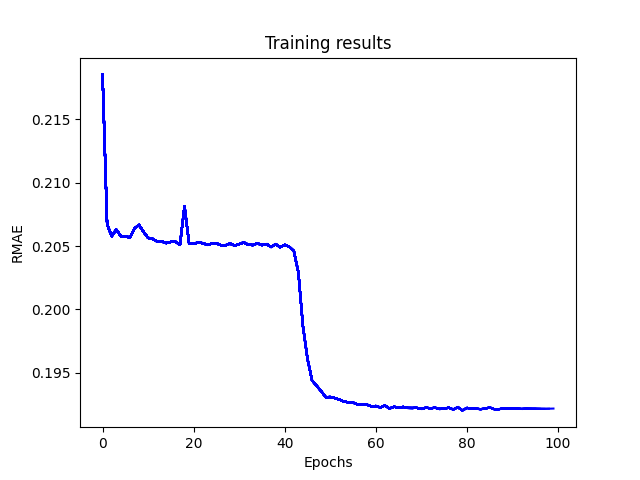
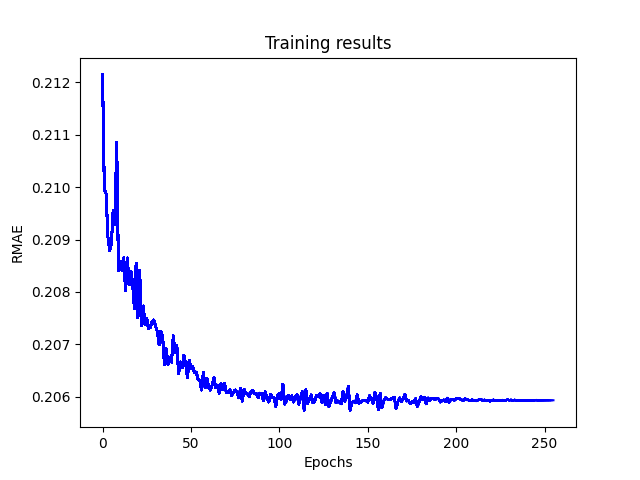
make linear regression use the same data to train as random forest

diff --git a/basic_models/linear_regression.py b/basic_models/linear_regression.py
@@ -2,6 +2,8 @@ import pandas
 from sklearn import linear_model
 import math
 from statistics import mean
+import numpy as np
+from sklearn.model_selection import train_test_split
 
 df = pandas.read_csv("preprocessed_data.csv")
 
@@ -13,8 +15,16 @@ df_test = df.iloc[split_index:,:]
 X = df_dev[['temperature','humidity','wind_speed','day','10minuteofday','prev_aggregated_consumption']]
 y = df_dev['aggregated_consumption']
 
+labels = np.array(df['aggregated_consumption'])
+df = df.drop('aggregated_consumption', axis=1)
+df = df.drop(df.columns[0], axis=1)
+features = np.array(df)
+train_features, test_features, train_labels, test_labels = train_test_split(
+    features, labels, test_size=0.25, random_state=42)
+
 regr = linear_model.LinearRegression()
-regr.fit(X.values, y.values)
+#regr.fit(X.values, y.values)
+regr.fit(train_features, train_labels)
 
 diff = []
 

diff --git a/basic_models/args.py b/basic_models/args.py
@@ -7,9 +7,9 @@ def parse_args() -> Namespace:
     p.add_argument('--device', type=str, default='cpu')
 
     p.add_argument('--batch_size', type=int, default=64)
-    p.add_argument('--epochs', type=int, default=100)
-    p.add_argument('--lr', type=float, default=1e-2)
-    p.add_argument('--lr_gamma', type=float, default=0.85)
+    p.add_argument('--epochs', type=int, default=256)
+    p.add_argument('--lr', type=float, default=1e-1)
+    p.add_argument('--lr_gamma', type=float, default=0.95)
 
     p.add_argument('--num_layers', type=int, default=2)
     p.add_argument('--hidden_dim', type=int, default=16)

diff --git a/basic_models/mlp_train.py b/basic_models/mlp_train.py
@@ -186,6 +186,7 @@ def train(
 
         # Evaluate
         result = evaluate(model, dev_data, batch_size, device=device)
+        print(f'Learning rate: {lr_scheduler.get_lr()}')
         print(f'Average test loss: {result["loss"]:.5f}')
         dev_losses.append(result['loss'])
         dev_rmae.append(result['rmae'])
